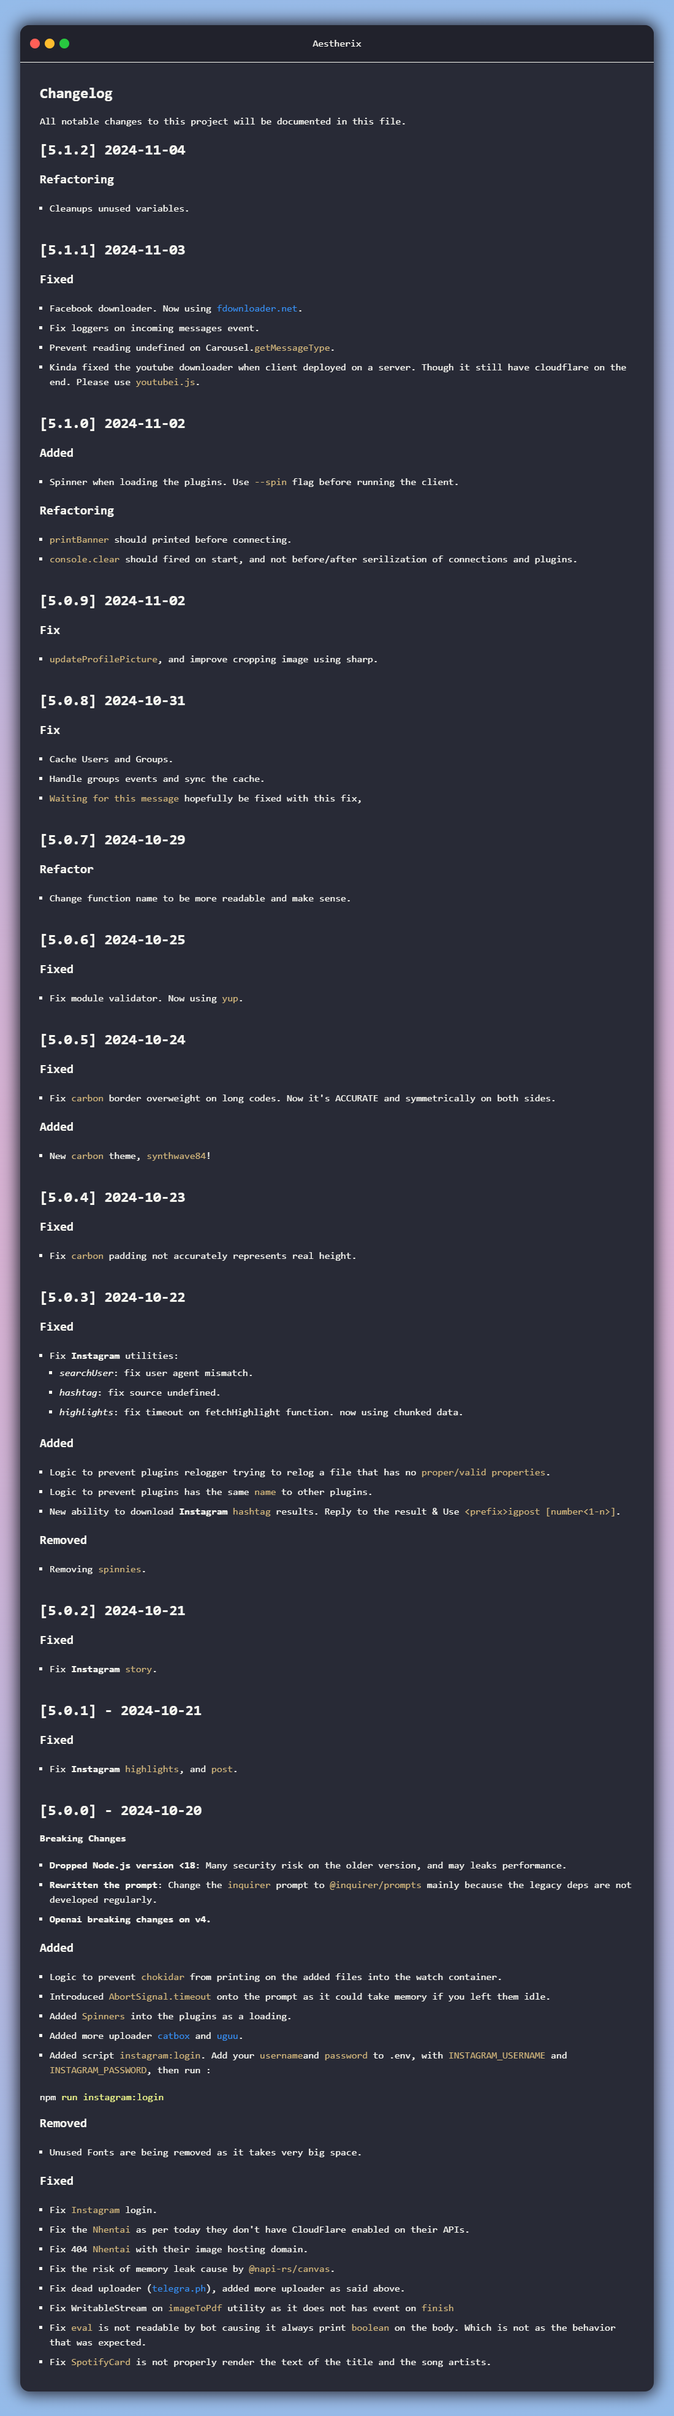
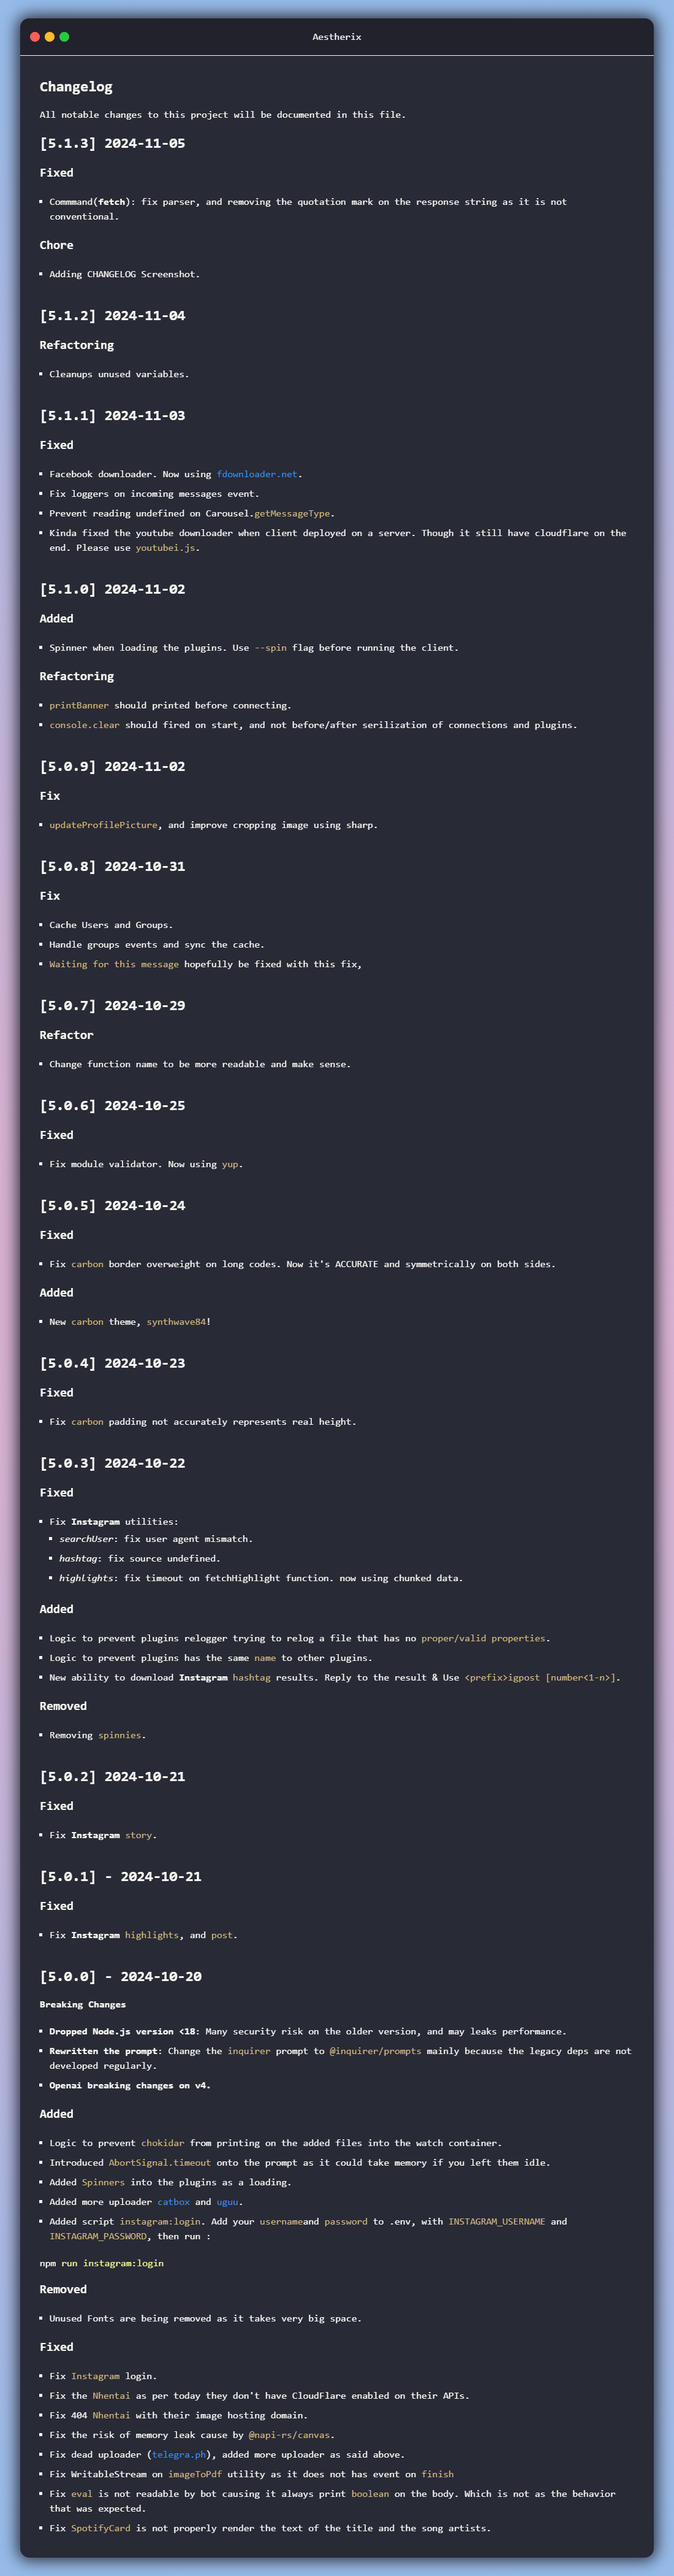
update changelog

diff --git a/CHANGELOG.md b/CHANGELOG.md
@@ -2,6 +2,15 @@
 
 All notable changes to this project will be documented in this file.
 
+# [5.1.3] 2024-11-05
+## Fixed
+- Commmand(**fetch**): fix parser, and removing the quotation mark on the response string as it is not conventional.
+
+## Chore
+- Adding CHANGELOG Screenshot.
+
+---
+
 # [5.1.2] 2024-11-04
 ## Refactoring
 - Cleanups unused variables.
